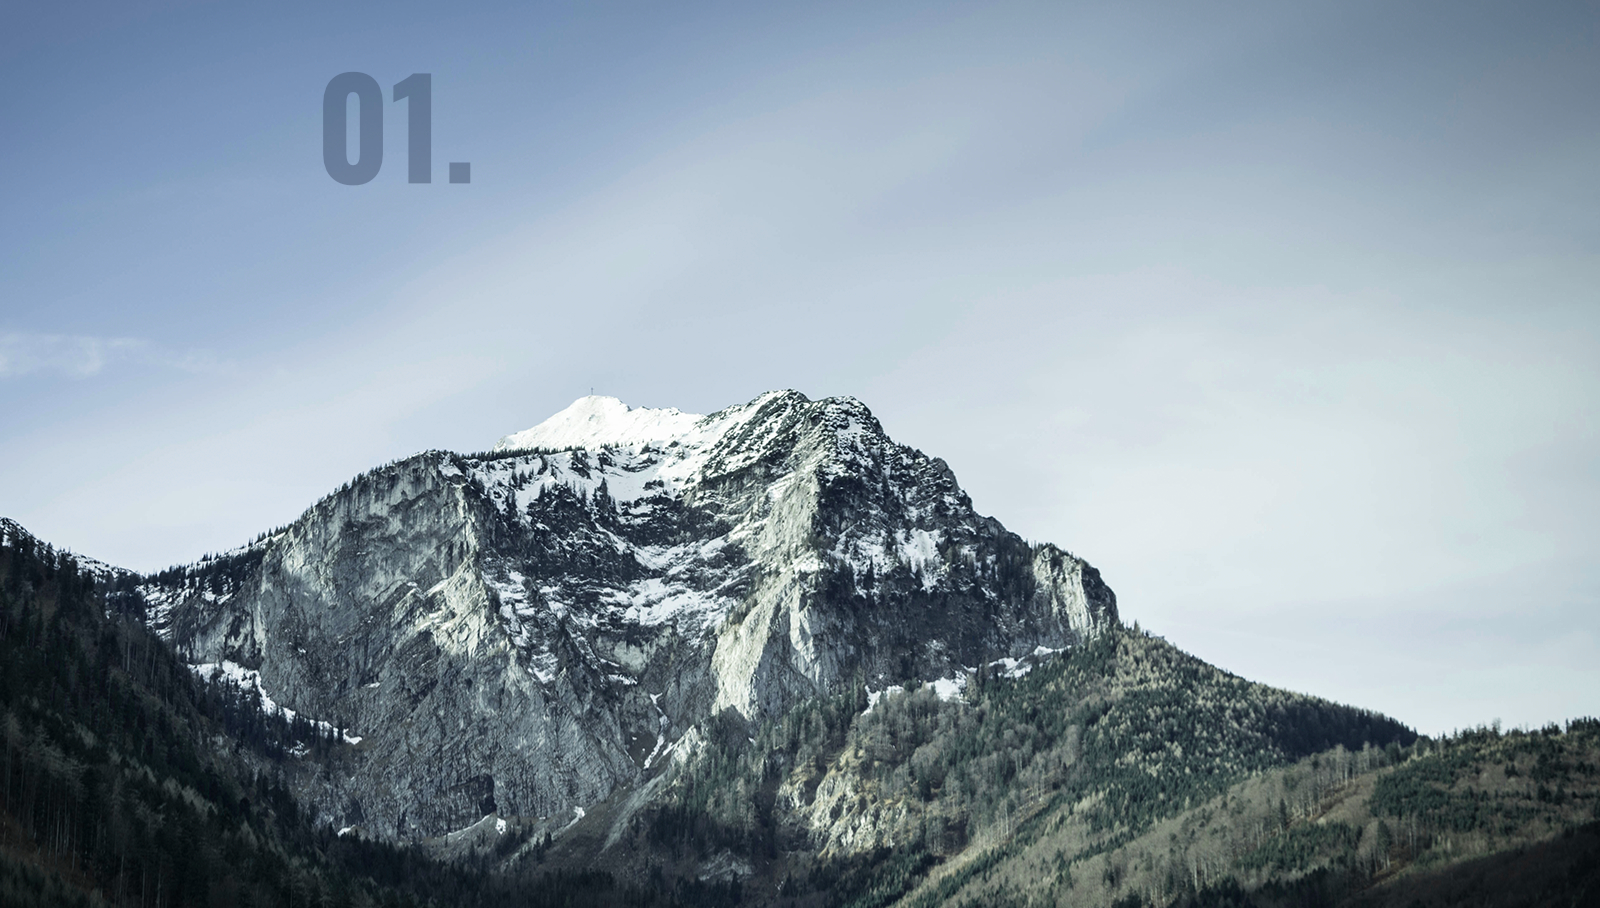
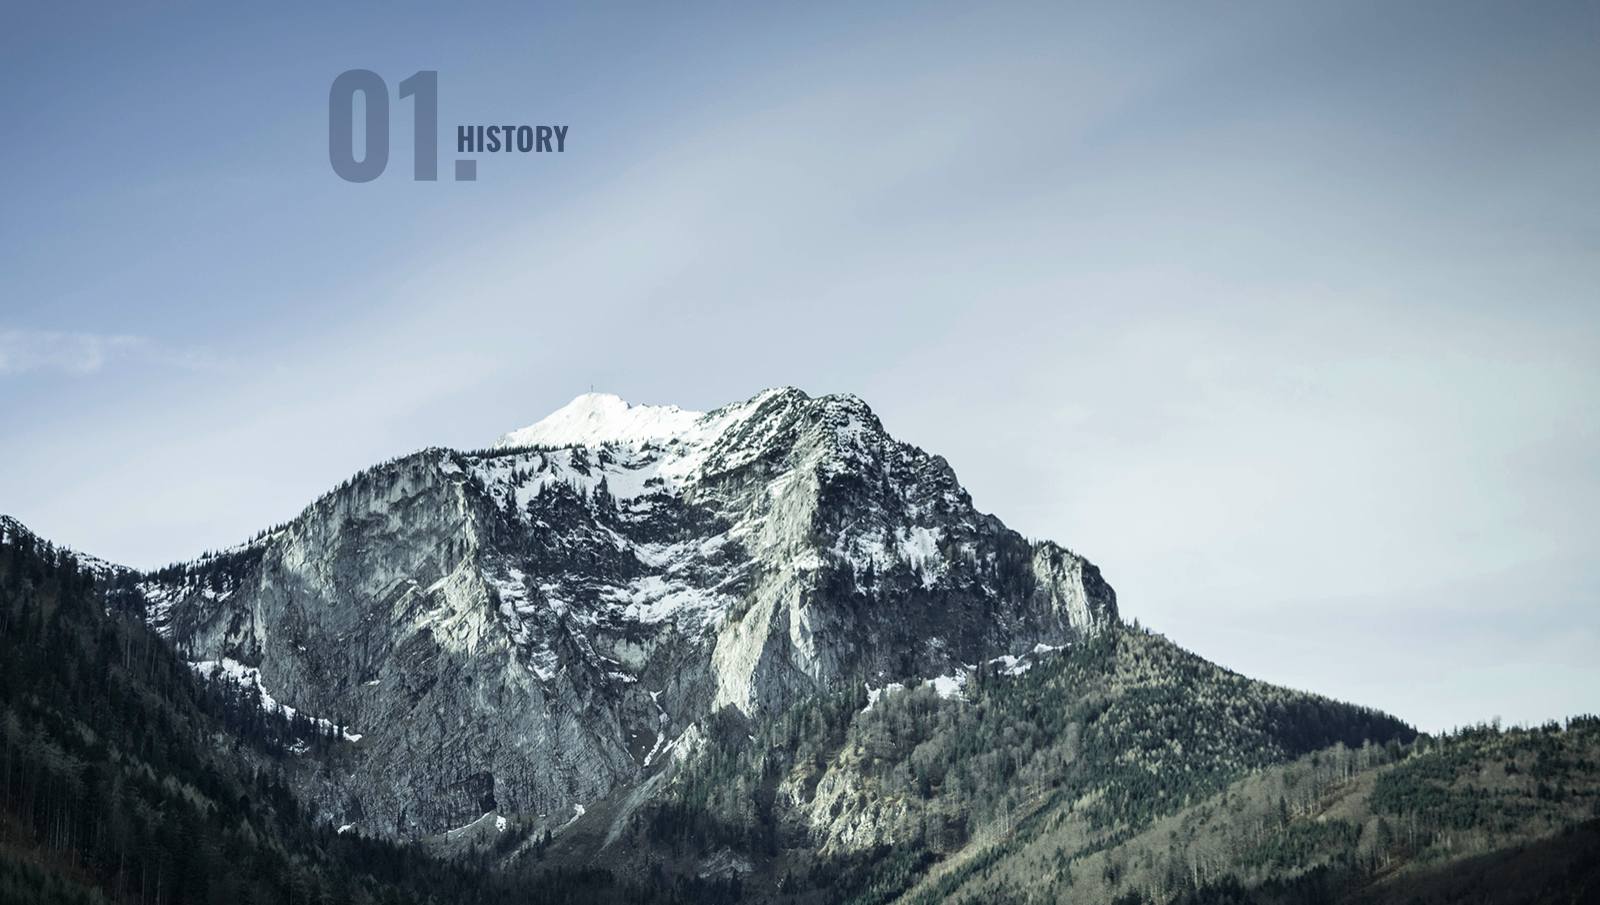
Finished markup for history section and began work on team / climb section.

diff --git a/index.html b/index.html
@@ -43,6 +43,18 @@
 
     <!-- History Section -->
     <section id="history" class="vw-100 vh-100">
+        <div class="d-flex justify-content-center align-items-center">
+            <div class="history-text-container">
+                <p class="history-text">
+                    Lorem ipsum dolor sit amet, consectetur adipiscing elit. Proin in ante viverra, rutrum erat rutrum,
+                    consectetur mi. Proin at maximus est. Nullam purus ex, iaculis sed erat sed, blandit tincidunt quam.
+                    Cras
+                    scelerisque id quam sed dignissim Pellentesque urna nunc, gravida quis hendrerit ac, tristique ut
+                    quam.
+                    Vivamus suscipit dignissim tortor nec congue.
+                </p>
+            </div>
+        </div>
         <div id="carouselNavigationSelectors" class="carousel slide position-relative d-flex justify-content-center"
             data-bs-ride="carousel">
             <div class="carousel-indicators">
@@ -54,18 +66,6 @@
                     aria-label="Slide 3"></button>
             </div>
             <div class="carousel-inner d-flex justify-content-center">
-                <!-- <div class="carousel-item">
-                    <img src="img/mountain-man.jpg" class="" alt=" ...">
-                </div>
-                <div class="carousel-item">
-                    <img src="..." class="" alt="...">
-                </div>
-                <div class="carousel-item">
-                    <img src="img/mountain-man.jpg" class="" alt="...">
-                </div>
-                <div class="carousel-item">
-                    <img src="..." class="" alt="...">
-                </div> -->
                 <div class="row align-items-center">
                     <div class="col d-flex justify-content-center">
                         <img src="img/mountain-man.jpg" alt="">
@@ -85,9 +85,16 @@
 
     <!-- Climb / Team Section -->
     <section class="vw-100 vh-100">
-        <div class="container-sm">
-            <h1>CLIMB/TEAM SECTION</h1>
+        <div class="d-flex justify-content-center align-items-start vh-100">
+            <div class="bg-climb d-flex align-items-center">
+                <p>
+                    Cras scelerisque id quam sed dignissim Pellentesque urna nunc, gravida quis hendrerit ac, tristique
+                    ut quam. Vivamus suscipit dignissim tortor nec congue.
+                </p>
+            </div>
         </div>
+        <div></div>
+        <div></div>
     </section>
 
 

diff --git a/style.css b/style.css
@@ -25,7 +25,7 @@ nav.navbar {
 
 nav.navbar > div {
     max-width: 70vw !important;
-    padding-left: 8vw;
+    padding-left: 5.3vw;
 }
 
 .nav-link {
@@ -52,17 +52,17 @@ nav.navbar > div {
     font-family: "Bebas";
     text-transform: uppercase;
     color: #4D4D4D;
-    font-size: 8.6vw;
-    line-height: 9.6vw;
+    font-size: 7.3vw;
+    line-height: 8vw;
     position: relative;
-    bottom: 10vh;
-    right: 6vw;
+    bottom: 7vh;
+    right: 5.5vw;
 }
 
 #hero h1.display-1 span {
     color: #414F6B;
     letter-spacing: 1px;
-    font-size: 9vw;
+    font-size: 7.8vw;
 }
 
 #hero div.container-sm {
@@ -77,7 +77,7 @@ nav.navbar > div {
 }
 
 #history .carousel {
-    top: 80%;
+    top: 20%;
     height: 20vh;
     opacity: 80%;
     background-color: #414F6B;
@@ -88,6 +88,10 @@ nav.navbar > div {
     height: 6px;
     border-radius: 50%;
     border: none;
+}
+
+.carousel-indicators {
+    bottom: -4%;
 }
 
 .carousel-item {
@@ -107,4 +111,39 @@ nav.navbar > div {
 
 .row >* {
     padding: 0 1% 0 1%;
+}
+
+#history > div {
+    height: 60%;
+}
+
+#history div.history-text-container {
+    max-width: 64%;
+    position: relative;
+    left: 6.3%;
+    bottom: 2%;
+}
+
+p.history-text {
+    font-family: "Lato Light", sans-serif;
+    color: #000;
+    font-size: 16px;
+}
+
+/* Team / Climb Section Styles */
+.bg-climb {
+    background-image: url("img/02climb.jpg");
+    background-size: 30%;
+    background-position-x: left;
+    background-position-y: center;
+    background-repeat: no-repeat;
+    height: 30%;
+    width: 48.5%;
+}
+
+.bg-climb > p {
+    font-family: "Lato Light", sans-serif;
+    color: #000;
+    font-size: 16px;
+    max-width: 95%;
 }
